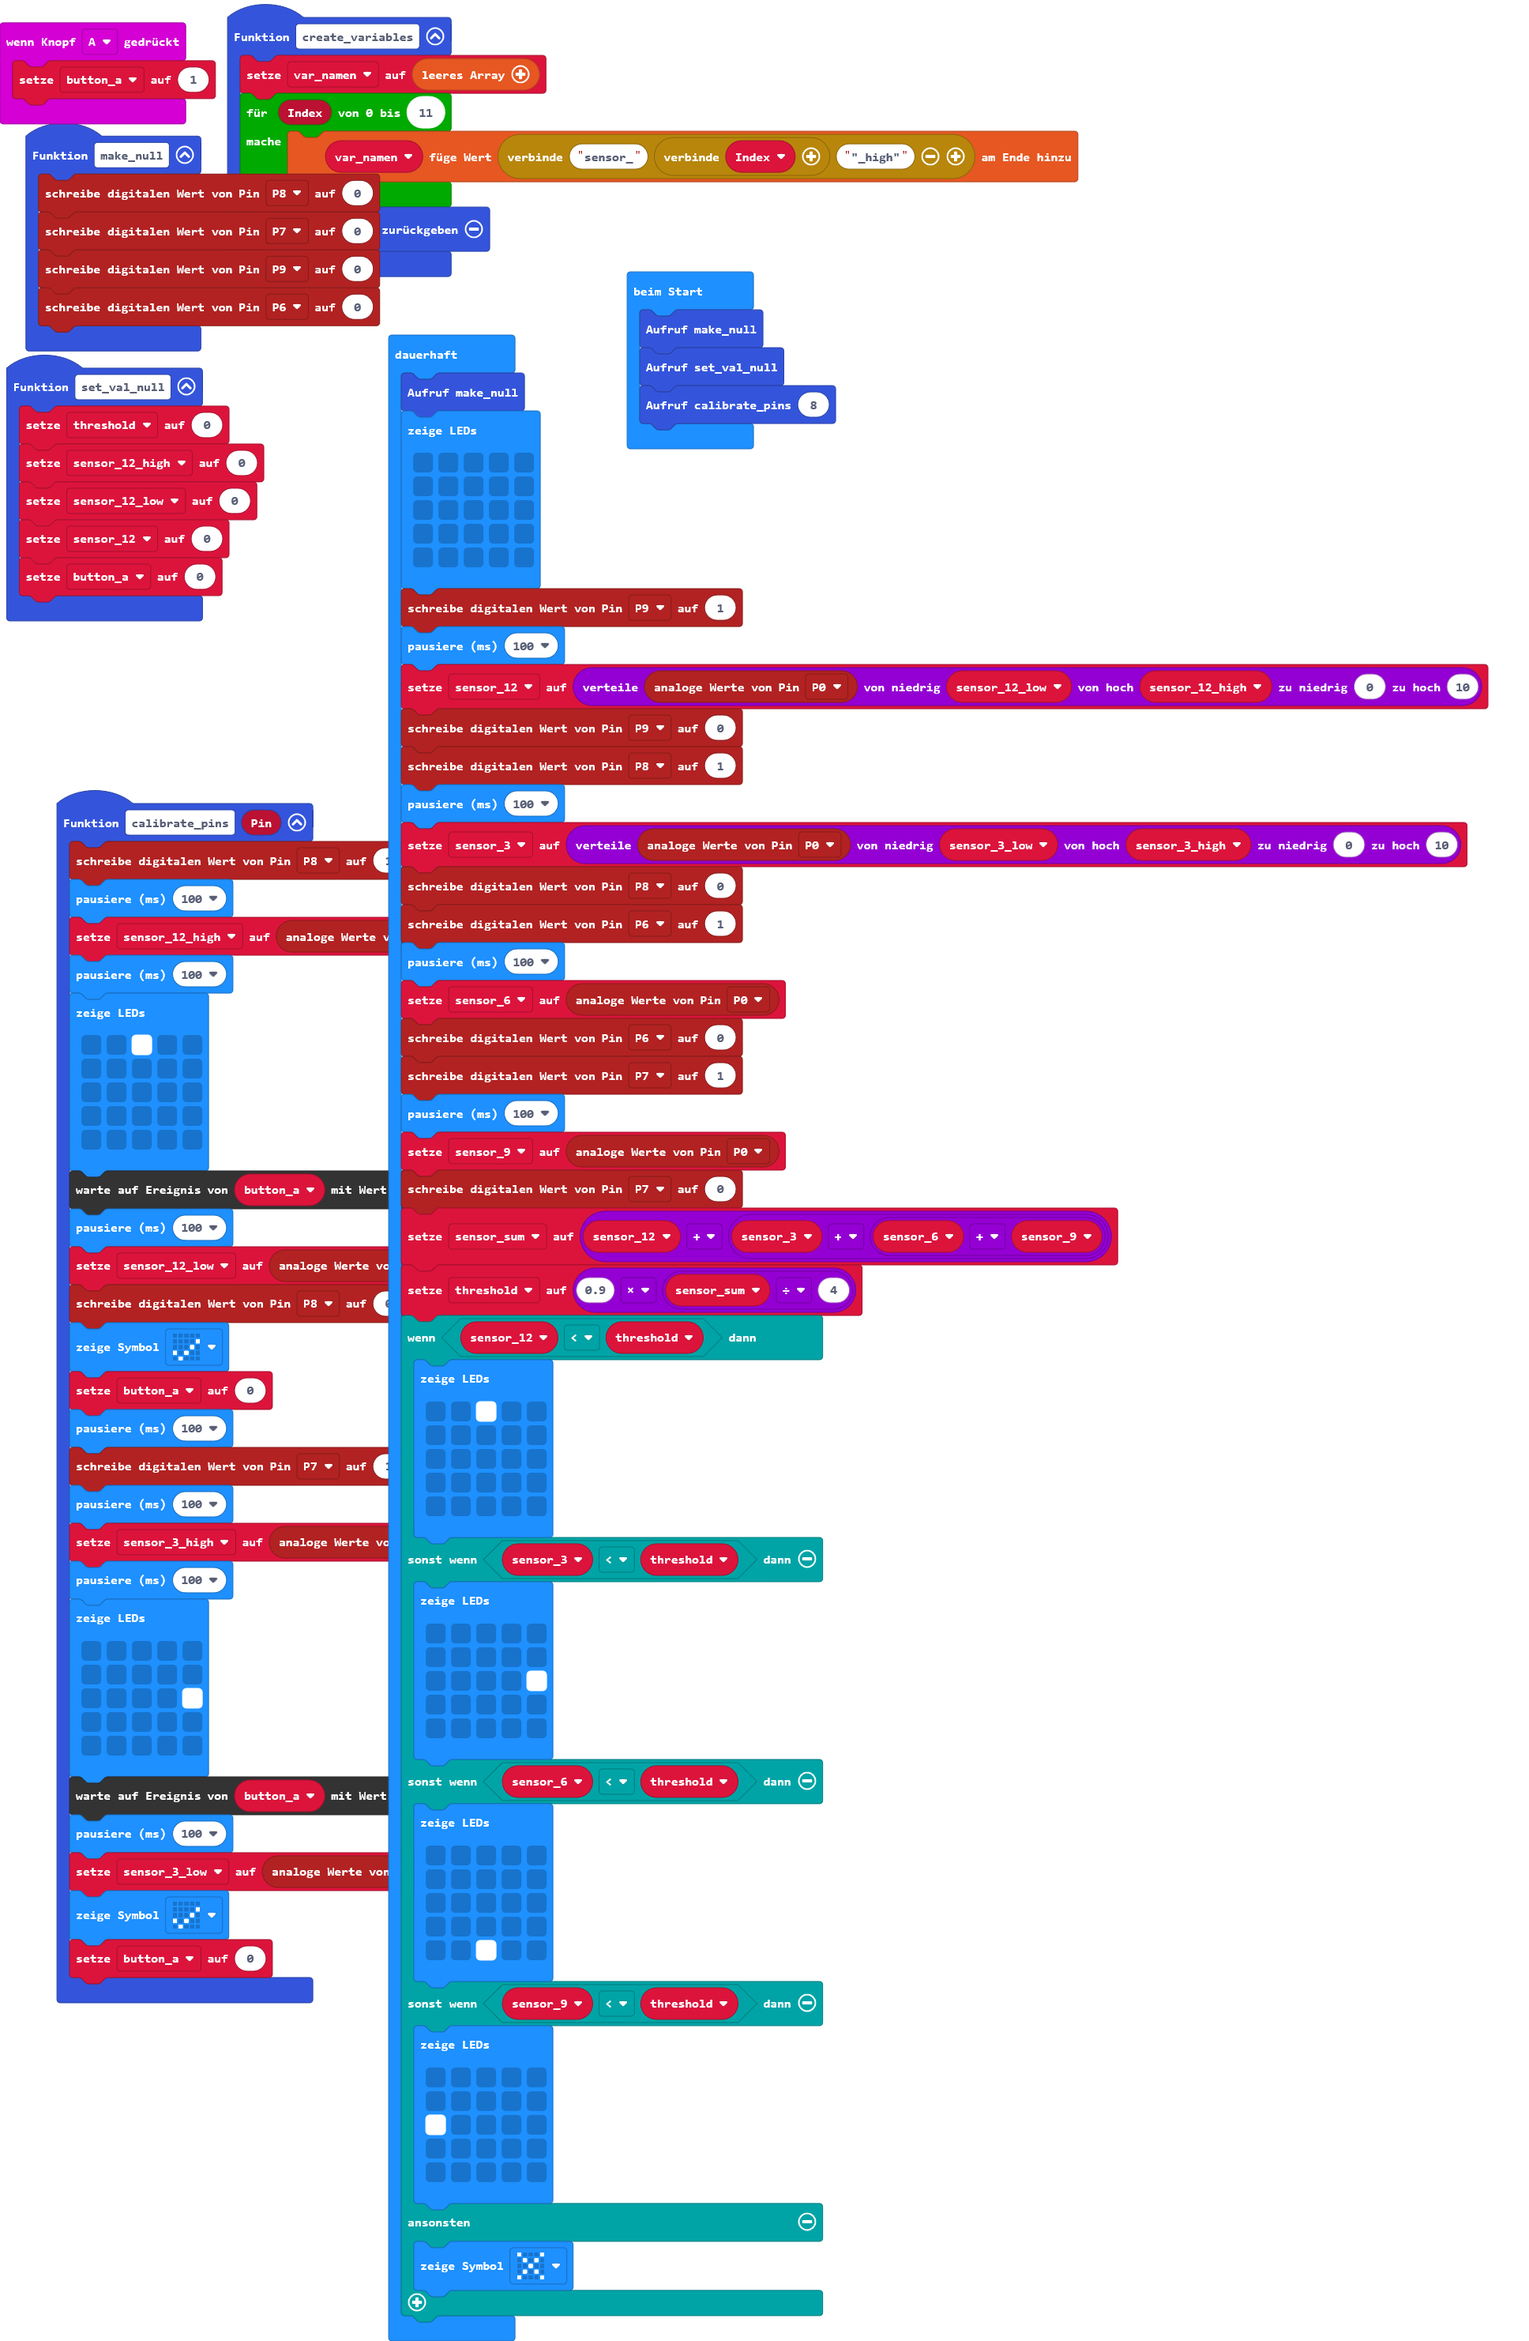
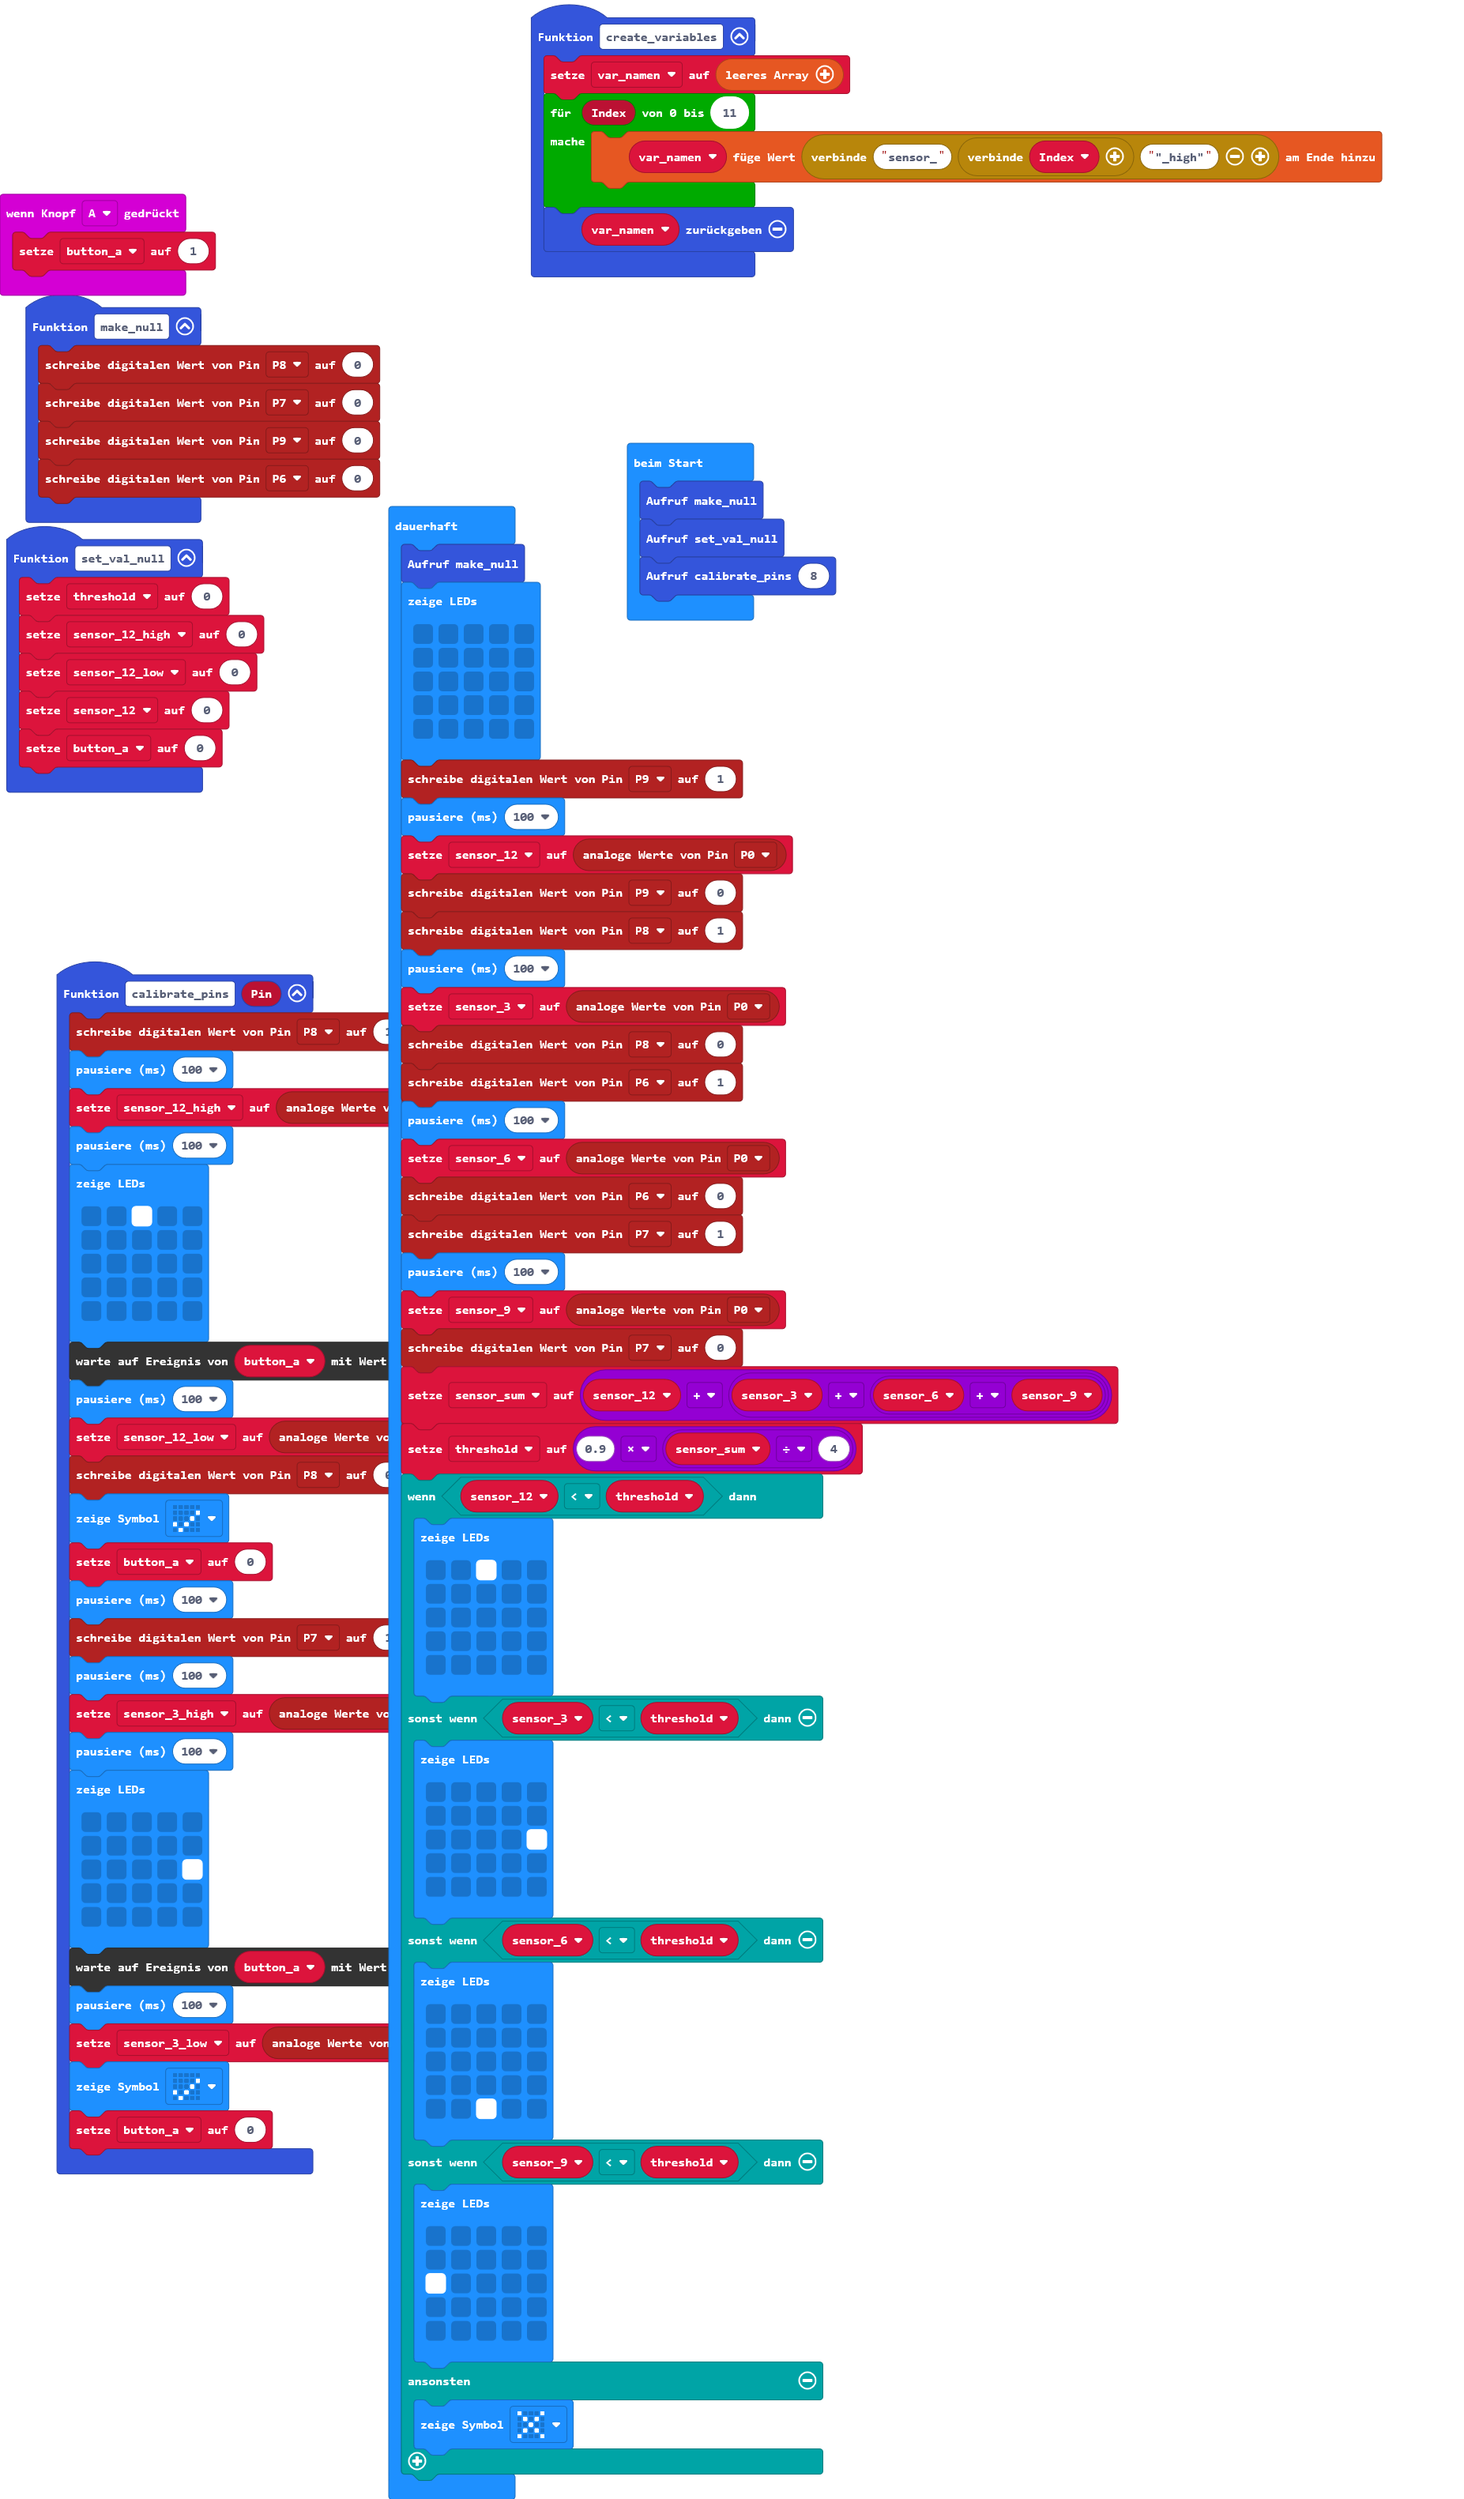
Aktualisiere main.blocks, main.ts

diff --git a/main.ts b/main.ts
@@ -83,11 +83,11 @@ basic.forever(function () {
         `)
     pins.digitalWritePin(DigitalPin.P9, 1)
     basic.pause(100)
-    sensor_12 = Math.map(pins.analogReadPin(AnalogPin.P0), sensor_12_low, sensor_12_high, 0, 10)
+    sensor_12 = pins.analogReadPin(AnalogPin.P0)
     pins.digitalWritePin(DigitalPin.P9, 0)
     pins.digitalWritePin(DigitalPin.P8, 1)
     basic.pause(100)
-    sensor_3 = Math.map(pins.analogReadPin(AnalogPin.P0), sensor_3_low, sensor_3_high, 0, 10)
+    sensor_3 = pins.analogReadPin(AnalogPin.P0)
     pins.digitalWritePin(DigitalPin.P8, 0)
     pins.digitalWritePin(DigitalPin.P6, 1)
     basic.pause(100)
